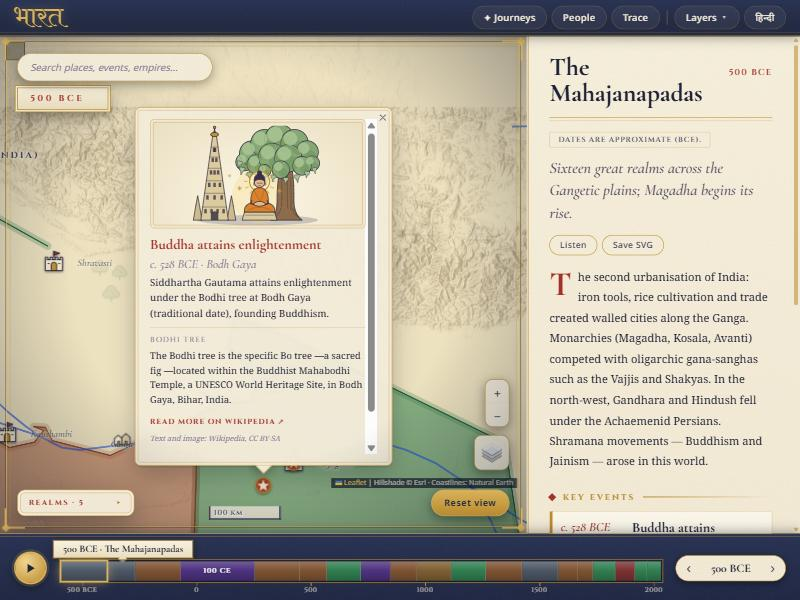
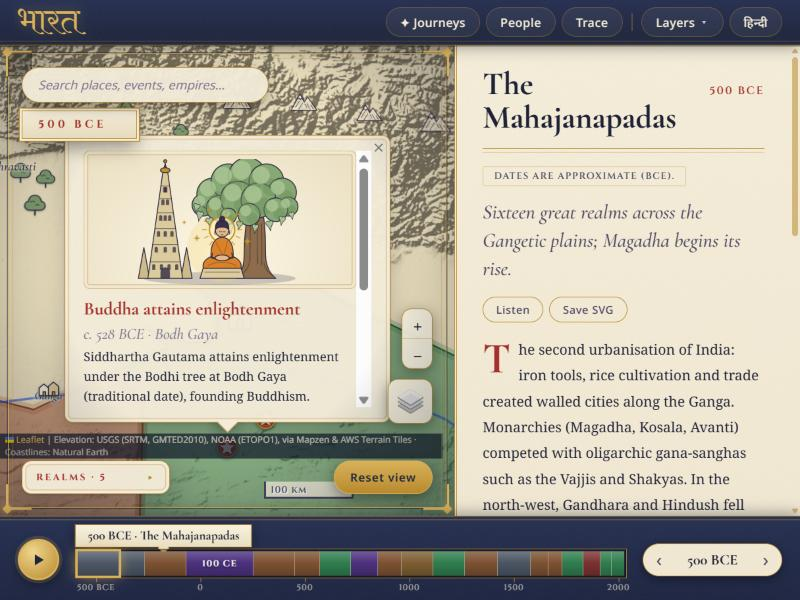
Replace Esri map tiles with open, keyless sources
Hillshade and the Relief view are now drawn in the browser from the public
AWS Terrain Tiles dataset (USGS SRTM/GMTED2010, NOAA ETOPO1) by js/terrain.js;
the Satellite view and the "today" side of Then & Now use NASA Blue Marble
via NASA GIBS (CC0). No Esri requests remain; CSP img-src updated, NOTICE and
READMEs updated, README screenshots retaken, cache version bumped to 60.

diff --git a/india-atlas/js/terrain.js b/india-atlas/js/terrain.js
@@ -1,0 +1,127 @@
+/*
+ * Map surfaces that come from open, keyless sources (no vendor terms to worry about):
+ *   shade()   - the hillshade under the antique atlas
+ *   relief()  - the "Relief" base map: hypsometric tint (sea depth, lowland green, brown hills, white peaks) with shading
+ *   imagery() - the "Satellite" view and the "today" side of Then & Now
+ *
+ * shade() and relief() are drawn in the visitor's browser from the public Terrain Tiles dataset (elevation encoded as
+ * RGB "terrarium" PNGs on AWS Open Data; built from SRTM and GMTED2010, US Geological Survey, and ETOPO1, NOAA), so the
+ * look is ours to control. A tile needs its eight neighbours so the slope at its edges is right; decoded tiles are
+ * cached in memory and shared between neighbours.
+ * imagery() is NASA's Blue Marble (Next Generation), served by NASA GIBS (NASA data is CC0).
+ */
+(function () {
+  'use strict';
+  if (!window.L) return;
+
+  const TERRAIN = 'https://s3.amazonaws.com/elevation-tiles-prod/terrarium/';
+  const GIBS = 'https://gibs.earthdata.nasa.gov/wmts/epsg3857/best/BlueMarble_NextGeneration/default/GoogleMapsCompatible_Level8/{z}/{y}/{x}.jpeg';
+  const ATTR_ELEV = 'Elevation: USGS (SRTM, GMTED2010), NOAA (ETOPO1), via Mapzen &amp; AWS Terrain Tiles';
+  const ATTR_IMG = 'Imagery: NASA Blue Marble, NASA GIBS';
+
+  // ------------------------------------------------------------------ decoded elevation tiles (LRU)
+  const cache = new Map(), CACHE_MAX = 120;
+  const scratch = document.createElement('canvas'); scratch.width = scratch.height = 256;
+  const sctx = scratch.getContext('2d', { willReadFrequently: true });
+
+  function load(z, x, y) {
+    const n = 1 << z;
+    if (y < 0 || y >= n) return Promise.resolve(null);
+    x = ((x % n) + n) % n;
+    const key = z + '/' + x + '/' + y;
+    let p = cache.get(key);
+    if (p) { cache.delete(key); cache.set(key, p); return p; }
+    p = new Promise((resolve) => {
+      const im = new Image(); im.crossOrigin = 'anonymous'; im.decoding = 'async';
+      im.onload = () => {
+        try {
+          sctx.clearRect(0, 0, 256, 256); sctx.drawImage(im, 0, 0);
+          const d = sctx.getImageData(0, 0, 256, 256).data, e = new Float32Array(65536);
+          for (let i = 0, j = 0; j < 65536; i += 4, j++) e[j] = d[i] * 256 + d[i + 1] + d[i + 2] / 256 - 32768;   // metres
+          resolve(e);
+        } catch (_) { cache.delete(key); resolve(null); }
+      };
+      im.onerror = () => { cache.delete(key); resolve(null); };
+      im.src = TERRAIN + key + '.png';
+    });
+    cache.set(key, p);
+    if (cache.size > CACHE_MAX) cache.delete(cache.keys().next().value);
+    return p;
+  }
+
+  // ------------------------------------------------------------------ colour ramp for the relief map
+  const STOPS = [   // metres -> RGB; soft, a little desaturated so it sits with the parchment UI
+    [-8000, [112, 140, 158]], [-4000, [134, 162, 176]], [-1500, [158, 184, 194]], [-300, [186, 208, 211]], [-1, [206, 223, 218]],
+    [0, [176, 196, 136]], [250, [196, 208, 146]], [600, [216, 214, 156]], [1100, [224, 205, 150]], [1800, [212, 184, 134]],
+    [2800, [190, 158, 120]], [3800, [168, 146, 126]], [4800, [196, 186, 176]], [5800, [234, 231, 226]], [8000, [252, 252, 250]]
+  ];
+  const LUT_MIN = -9000, LUT_STEP = 20, LUT = new Uint8ClampedArray(((9500 - LUT_MIN) / LUT_STEP + 2) * 3);
+  (function build() {
+    for (let k = 0; k * LUT_STEP + LUT_MIN <= 9500; k++) {
+      const e = LUT_MIN + k * LUT_STEP; let a = STOPS[0], b = STOPS[STOPS.length - 1];
+      for (let s = 0; s < STOPS.length - 1; s++) if (e >= STOPS[s][0] && e <= STOPS[s + 1][0]) { a = STOPS[s]; b = STOPS[s + 1]; break; }
+      const t = e <= a[0] ? 0 : e >= b[0] ? 1 : (e - a[0]) / (b[0] - a[0]);
+      for (let c = 0; c < 3; c++) LUT[k * 3 + c] = a[1][c] + (b[1][c] - a[1][c]) * t;
+    }
+  })();
+
+  // ------------------------------------------------------------------ drawing one tile
+  const AZ = 315 * Math.PI / 180, ALT = 42 * Math.PI / 180;   // light from the north-west, as on a printed atlas
+  const LX = Math.sin(AZ) * Math.cos(ALT), LY = Math.cos(AZ) * Math.cos(ALT), LZ = Math.sin(ALT);
+
+  function render(coords, mode, canvas) {
+    const z = coords.z, n = 1 << z;
+    const nb = [];
+    for (let dy = -1; dy <= 1; dy++) for (let dx = -1; dx <= 1; dx++) nb.push(load(z, coords.x + dx, coords.y + dy));
+    return Promise.all(nb).then((t) => {
+      const c = t[4]; if (!c) return;
+      const W = 258, h = new Float32Array(W * W), raw = mode === 'relief' ? c : null;
+      for (let j = -1; j <= 256; j++) {
+        const ty = j < 0 ? 0 : j > 255 ? 2 : 1, lj = j < 0 ? 255 : j > 255 ? 0 : j;
+        for (let i = -1; i <= 256; i++) {
+          const tx = i < 0 ? 0 : i > 255 ? 2 : 1, li = i < 0 ? 255 : i > 255 ? 0 : i;
+          let T = t[ty * 3 + tx], a = li, b = lj;
+          if (!T) { T = c; a = i < 0 ? 0 : i > 255 ? 255 : i; b = j < 0 ? 0 : j > 255 ? 255 : j; }   // missing neighbour: reuse the edge
+          const e = T[b * 256 + a]; h[(j + 1) * W + i + 1] = e > 0 ? e : 0;   // the sea is flat, so only land is shaded
+        }
+      }
+      const ex = (mode === 'relief' ? 2 : 2.5) * Math.pow(2, (10 - z) * 0.45);   // vertical exaggeration: broad views have tiny slopes, so lift them
+      const ctx = canvas.getContext('2d'), img = ctx.createImageData(256, 256), o = img.data;
+      for (let j = 0; j < 256; j++) {
+        const lat = Math.atan(Math.sinh(Math.PI * (1 - 2 * (coords.y + (j + 0.5) / 256) / n)));
+        const k = 1 / (8 * (40075016.686 / (256 * n)) * Math.cos(lat)) * ex;   // 1 / (8 x metres per pixel), Horn's method
+        for (let i = 0; i < 256; i++) {
+          const p = (j + 1) * W + i + 1;
+          const a = h[p - W - 1], b = h[p - W], cc = h[p - W + 1], d = h[p - 1], f = h[p + 1], g = h[p + W - 1], hh = h[p + W], ii = h[p + W + 1];
+          const dzdx = ((cc + 2 * f + ii) - (a + 2 * d + g)) * k, dzdy = ((a + 2 * b + cc) - (g + 2 * hh + ii)) * k;
+          const lit = (-dzdx * LX - dzdy * LY + LZ) / Math.sqrt(dzdx * dzdx + dzdy * dzdy + 1);   // 1 on flat ground x sin(altitude)
+          const r = lit / LZ, q = (j * 256 + i) * 4;
+          if (mode === 'relief') {
+            let li = Math.round((raw[j * 256 + i] - LUT_MIN) / LUT_STEP); li = li < 0 ? 0 : li > 718 ? 718 : li;
+            let m = 1 + 0.85 * (r - 1); m = m < 0.5 ? 0.5 : m > 1.14 ? 1.14 : m;
+            o[q] = LUT[li * 3] * m; o[q + 1] = LUT[li * 3 + 1] * m; o[q + 2] = LUT[li * 3 + 2] * m; o[q + 3] = 255;
+          } else {   // grey for a multiply blend: flat ground stays white, shaded slopes darken
+            let v = 1 - 1.35 * (1 - r); v = v < 0.14 ? 0.14 : v > 1 ? 1 : v;   // shadows a touch warmer than neutral grey
+            o[q] = v * 255; o[q + 1] = Math.pow(v, 1.06) * 255; o[q + 2] = Math.pow(v, 1.16) * 255; o[q + 3] = 255;
+          }
+        }
+      }
+      ctx.putImageData(img, 0, 0);
+    }).catch(() => { /* leave the tile blank */ });
+  }
+
+  const Terrain = L.GridLayer.extend({
+    initialize: function (mode, opts) { this._mode = mode; L.GridLayer.prototype.initialize.call(this, opts); },
+    createTile: function (coords, done) {
+      const c = document.createElement('canvas'); c.width = c.height = 256;
+      render(coords, this._mode, c).then(() => done(null, c));
+      return c;
+    }
+  });
+
+  window.ATLAS_TERRAIN = {
+    shade: (o) => new Terrain('shade', Object.assign({ maxNativeZoom: 9, maxZoom: 10, attribution: ATTR_ELEV + ' · Coastlines: Natural Earth' }, o)),
+    relief: (o) => new Terrain('relief', Object.assign({ maxNativeZoom: 9, maxZoom: 10, attribution: ATTR_ELEV }, o)),
+    imagery: (o) => L.tileLayer(GIBS, Object.assign({ maxNativeZoom: 8, maxZoom: 10, attribution: ATTR_IMG }, o))
+  };
+})();

diff --git a/india-atlas/index.html b/india-atlas/index.html
@@ -5,16 +5,16 @@
 <meta name="viewport" content="width=device-width, initial-scale=1">
 <title>Atlas of India — Interactive Historical Map</title>
 <meta name="description" content="Scrub through 2,500 years of Indian history: empires, journeys, events and places from the Mahajanapadas to today.">
-<meta http-equiv="Content-Security-Policy" content="default-src 'self'; script-src 'self' https://cdnjs.cloudflare.com; style-src 'self' 'unsafe-inline' https://cdnjs.cloudflare.com; font-src 'self'; img-src 'self' data: blob: https://cdnjs.cloudflare.com https://server.arcgisonline.com https://upload.wikimedia.org; connect-src 'self' https://en.wikipedia.org https://hi.wikipedia.org; worker-src 'self'; manifest-src 'self'; object-src 'none'; base-uri 'self'; form-action 'none'">
+<meta http-equiv="Content-Security-Policy" content="default-src 'self'; script-src 'self' https://cdnjs.cloudflare.com; style-src 'self' 'unsafe-inline' https://cdnjs.cloudflare.com; font-src 'self'; img-src 'self' data: blob: https://cdnjs.cloudflare.com https://s3.amazonaws.com https://gibs.earthdata.nasa.gov https://upload.wikimedia.org; connect-src 'self' https://en.wikipedia.org https://hi.wikipedia.org; worker-src 'self'; manifest-src 'self'; object-src 'none'; base-uri 'self'; form-action 'none'">
 <meta name="referrer" content="strict-origin-when-cross-origin">
 <meta name="theme-color" content="#1c2540">
 <link rel="manifest" href="manifest.webmanifest">
 <link rel="icon" href="icon.svg" type="image/svg+xml">
-<link rel="stylesheet" href="css/fonts.css?v=59">
+<link rel="stylesheet" href="css/fonts.css?v=60">
 <link rel="stylesheet" href="https://cdnjs.cloudflare.com/ajax/libs/leaflet/1.9.4/leaflet.min.css" integrity="sha512-h9FcoyWjHcOcmEVkxOfTLnmZFWIH0iZhZT1H2TbOq55xssQGEJHEaIm+PgoUaZbRvQTNTluNOEfb1ZRy6D3BOw==" crossorigin="anonymous" referrerpolicy="no-referrer">
-<link rel="stylesheet" href="css/style.css?v=59">
-<link rel="stylesheet" href="css/wow.css?v=59">
-<script src="js/preintro.js?v=59"></script>
+<link rel="stylesheet" href="css/style.css?v=60">
+<link rel="stylesheet" href="css/wow.css?v=60">
+<script src="js/preintro.js?v=60"></script>
 </head>
 <body>
 <div id="intro" class="intro"></div>
@@ -87,31 +87,32 @@
 </div>
 
 <script src="https://cdnjs.cloudflare.com/ajax/libs/leaflet/1.9.4/leaflet.min.js" integrity="sha512-puJW3E/qXDqYp9IfhAI54BJEaWIfloJ7JWs7OeD5i6ruC9JZL1gERT1wjtwXFlh7CjE7ZJ+/vcRZRkIYIb6p4g==" crossorigin="anonymous" referrerpolicy="no-referrer"></script>
-<script src="js/data.js?v=59"></script>
-<script src="js/data_hi.js?v=59"></script>
-<script src="js/geo.js?v=59"></script>
-<script src="js/icons.js?v=59"></script>
-<script src="js/land.js?v=59"></script>
-<script src="js/detail.js?v=59"></script>
-<script src="js/realm_notes.js?v=59"></script>
-<script src="js/routes.js?v=59"></script>
-<script src="js/people.js?v=59"></script>
-<script src="js/rivers.js?v=59"></script>
-<script src="js/works.js?v=59"></script>
-<script src="js/core.js?v=59"></script>
-<script src="js/event_wiki.js?v=59"></script>
-<script src="js/battles.js?v=59"></script>
-<script src="js/landmarks.js?v=59"></script>
-<script src="js/app.js?v=59"></script>
-<script src="js/extras.js?v=59"></script>
-<script src="js/lod.js?v=59"></script>
-<script src="js/wiki.js?v=59"></script>
-<script src="js/declutter.js?v=59"></script>
-<script src="js/voice.js?v=59"></script>
-<script src="js/journeys_data.js?v=59"></script>
-<script src="js/journeys.js?v=59"></script>
-<script src="js/swipe.js?v=59"></script>
-<script src="js/intro.js?v=59"></script>
-<script src="js/sw-register.js?v=59"></script>
+<script src="js/data.js?v=60"></script>
+<script src="js/data_hi.js?v=60"></script>
+<script src="js/geo.js?v=60"></script>
+<script src="js/icons.js?v=60"></script>
+<script src="js/land.js?v=60"></script>
+<script src="js/detail.js?v=60"></script>
+<script src="js/realm_notes.js?v=60"></script>
+<script src="js/routes.js?v=60"></script>
+<script src="js/people.js?v=60"></script>
+<script src="js/rivers.js?v=60"></script>
+<script src="js/works.js?v=60"></script>
+<script src="js/core.js?v=60"></script>
+<script src="js/event_wiki.js?v=60"></script>
+<script src="js/battles.js?v=60"></script>
+<script src="js/terrain.js?v=60"></script>
+<script src="js/landmarks.js?v=60"></script>
+<script src="js/app.js?v=60"></script>
+<script src="js/extras.js?v=60"></script>
+<script src="js/lod.js?v=60"></script>
+<script src="js/wiki.js?v=60"></script>
+<script src="js/declutter.js?v=60"></script>
+<script src="js/voice.js?v=60"></script>
+<script src="js/journeys_data.js?v=60"></script>
+<script src="js/journeys.js?v=60"></script>
+<script src="js/swipe.js?v=60"></script>
+<script src="js/intro.js?v=60"></script>
+<script src="js/sw-register.js?v=60"></script>
 </body>
 </html>

diff --git a/india-atlas/js/app.js b/india-atlas/js/app.js
@@ -69,12 +69,9 @@
   // respect "reduce motion": no fly animations, static route lines
   const REDUCE = !!(window.matchMedia && window.matchMedia('(prefers-reduced-motion: reduce)').matches);
   if (REDUCE) { const _fly = map.flyTo.bind(map); map.flyTo = (ll, z) => map.setView(ll, z == null ? map.getZoom() : z, { animate: false }); map.flyToBounds = (b, o) => map.fitBounds(b, Object.assign({ animate: false }, o)); void _fly; }
-  const relief = L.tileLayer('https://server.arcgisonline.com/ArcGIS/rest/services/World_Shaded_Relief/MapServer/tile/{z}/{y}/{x}', {
-    attribution: 'Tiles &copy; Esri — Source: Esri', maxNativeZoom: 13, maxZoom: 13
-  });
-  const imagery = L.tileLayer('https://server.arcgisonline.com/ArcGIS/rest/services/World_Imagery/MapServer/tile/{z}/{y}/{x}', {
-    attribution: 'Tiles &copy; Esri — Esri, Maxar, Earthstar Geographics', maxNativeZoom: 13, maxZoom: 13
-  });
+  // open, keyless map surfaces (js/terrain.js): relief and hillshade are drawn from public elevation data, satellite is NASA Blue Marble
+  const relief = ATLAS_TERRAIN.relief();
+  const imagery = ATLAS_TERRAIN.imagery();
   // ── custom "antique atlas" basemap: engraved sea, water-lined coasts, shaded hills, graticule ──
   map.createPane('landPane').style.zIndex = 210;
   const shadePane = map.createPane('shadePane'); shadePane.style.zIndex = 215; shadePane.classList.add('leaflet-shade-pane');
@@ -83,9 +80,7 @@
   const landRenderer = L.svg({ pane: 'landPane', padding: 0.6 });
   const gridRenderer = L.svg({ pane: 'gridPane', padding: 0.6 });
   const antique = L.layerGroup();
-  const hill = L.tileLayer('https://server.arcgisonline.com/ArcGIS/rest/services/Elevation/World_Hillshade/MapServer/tile/{z}/{y}/{x}', {
-    pane: 'shadePane', maxNativeZoom: 13, maxZoom: 13, attribution: 'Hillshade &copy; Esri · Coastlines: Natural Earth'
-  });
+  const hill = ATLAS_TERRAIN.shade({ pane: 'shadePane' });
   const LAND = window.ATLAS_LAND || [];
   [[36, 0.05], [25, 0.07], [16, 0.1], [9, 0.16], [4, 0.26]].forEach(([w, o]) => {   // water-lining: soft concentric ripples
     LAND.forEach((poly) => antique.addLayer(L.polygon(poly, { renderer: landRenderer, fill: false, color: '#bfd9df', weight: w, opacity: o, lineJoin: 'round', interactive: false })));

diff --git a/india-atlas/sw.js b/india-atlas/sw.js
@@ -1,9 +1,9 @@
 /* Service worker: offline app shell + Leaflet from the CDN. Map tiles are NOT cached (they need a network). */
-const VERSION = 'atlas-v59';
+const VERSION = 'atlas-v60';
 const SHELL = [
-  './', 'index.html', 'css/fonts.css?v=59', 'css/style.css?v=59', 'css/wow.css?v=59',
-  'js/data.js?v=59', 'js/data_hi.js?v=59', 'js/geo.js?v=59', 'js/land.js?v=59', 'js/icons.js?v=59', 'js/detail.js?v=59', 'js/realm_notes.js?v=59', 'js/lod.js?v=59', 'js/wiki.js?v=59', 'js/declutter.js?v=59', 'js/routes.js?v=59', 'js/people.js?v=59', 'js/rivers.js?v=59', 'js/works.js?v=59',
-  'js/core.js?v=59', 'js/event_wiki.js?v=59', 'js/battles.js?v=59', 'js/landmarks.js?v=59', 'js/app.js?v=59', 'js/extras.js?v=59', 'js/preintro.js?v=59', 'js/voice.js?v=59', 'js/journeys_data.js?v=59', 'js/journeys.js?v=59', 'js/swipe.js?v=59', 'js/intro.js?v=59', 'js/sw-register.js?v=59', 'icon.svg', 'manifest.webmanifest'
+  './', 'index.html', 'css/fonts.css?v=60', 'css/style.css?v=60', 'css/wow.css?v=60',
+  'js/data.js?v=60', 'js/data_hi.js?v=60', 'js/geo.js?v=60', 'js/land.js?v=60', 'js/icons.js?v=60', 'js/detail.js?v=60', 'js/realm_notes.js?v=60', 'js/lod.js?v=60', 'js/wiki.js?v=60', 'js/declutter.js?v=60', 'js/routes.js?v=60', 'js/people.js?v=60', 'js/rivers.js?v=60', 'js/works.js?v=60',
+  'js/core.js?v=60', 'js/event_wiki.js?v=60', 'js/battles.js?v=60', 'js/terrain.js?v=60', 'js/landmarks.js?v=60', 'js/app.js?v=60', 'js/extras.js?v=60', 'js/preintro.js?v=60', 'js/voice.js?v=60', 'js/journeys_data.js?v=60', 'js/journeys.js?v=60', 'js/swipe.js?v=60', 'js/intro.js?v=60', 'js/sw-register.js?v=60', 'icon.svg', 'manifest.webmanifest'
 ];
 const CDN = ['https://cdnjs.cloudflare.com/ajax/libs/leaflet/1.9.4/leaflet.min.css', 'https://cdnjs.cloudflare.com/ajax/libs/leaflet/1.9.4/leaflet.min.js'];
 

diff --git a/india-atlas/js/swipe.js b/india-atlas/js/swipe.js
@@ -27,9 +27,7 @@
 
   // ---- the "today" layers live in their own pane so a single clip rectangle can hide them left of the line ----
   const pane = map.createPane('nowPane'); pane.style.zIndex = 640; pane.style.pointerEvents = 'none';
-  const tiles = L.tileLayer('https://server.arcgisonline.com/ArcGIS/rest/services/World_Imagery/MapServer/tile/{z}/{y}/{x}', {
-    pane: 'nowPane', maxNativeZoom: 13, maxZoom: 13, attribution: 'Imagery &copy; Esri, Maxar, Earthstar Geographics'
-  });
+  const tiles = ATLAS_TERRAIN.imagery({ pane: 'nowPane' });
   const renderer = L.svg({ pane: 'nowPane', padding: 0.6 });
   const group = L.layerGroup();
   let labelMarkers = [];

diff --git a/india-atlas/README.md b/india-atlas/README.md
@@ -27,10 +27,10 @@ The site is fully static (relative paths, no build step), so it works from a Git
 1. In the folder that contains `india-atlas/` and `scripts/`: `git init`, commit, and push to a new GitHub repository (branch `main`).
 2. In the repo: **Settings → Pages → Build and deployment → Source: GitHub Actions**.
 3. The included workflow `.github/workflows/pages.yml` validates the data, rebuilds the topic pages and sitemap with your real URL, and publishes `india-atlas/` to `https://<user>.github.io/<repo>/`.
-Notes: the large `upstream/` and `raw-data/` folders are git-ignored; map tiles come from Esri (check their terms for your traffic); the fonts are self-hosted, so no visitor data goes to Google.
+Notes: the large `upstream/` and `raw-data/` folders are git-ignored; the map surfaces come from open, keyless sources (public elevation data and NASA imagery, see `NOTICE.md`), so there is no tile account or key to set up; the fonts are self-hosted, so no visitor data goes to Google.
 
 ## Look and feel
-The visual system follows the design language of the original jiangshan-map (GPL-3.0): a warm parchment palette with a vermilion accent, serif body text with a sans-serif UI (Noto Serif / Noto Sans with Devanagari companions), a calligraphic seal mark (Amita) in the header, pill controls, hairline borders, a docked side panel with event cards, a floating legend card with era-progress dots, a sepia-toned relief basemap with an aged-paper vignette, muted watercolour-style realm fills, and a banded timeline coloured by each era's largest realm. Fonts load from Google Fonts.
+The visual system follows the design language of the original jiangshan-map (GPL-3.0): a warm parchment palette with a vermilion accent, serif body text with a sans-serif UI (Noto Serif / Noto Sans with Devanagari companions), a calligraphic seal mark (Amita) in the header, pill controls, hairline borders, a docked side panel with event cards, a floating legend card with era-progress dots, a sepia-toned relief basemap with an aged-paper vignette, muted watercolour-style realm fills, and a banded timeline coloured by each era's largest realm. The fonts are bundled with the site (`fonts/`, SIL Open Font License).
 
 ## Run
 ```
@@ -51,7 +51,7 @@ Docker (untested here): `docker compose up -d --build`, then open http://localho
 ## Caveats
 - Borders are approximate; the source's names/polygons can be generic ("Hindu kingdoms") — some were relabelled by hand.
 - Hindi covers everything: UI, era and realm names, narratives, rulers, places, events and quiz clues (`js/data_hi.js`, aligned by index with `js/data.js` — keep them in sync when adding items). Translations are machine-drafted; a native-speaker review is recommended.
-- Basemap tiles come from Esri (World Shaded Relief / Imagery, attribution shown). Check Esri's terms and use a keyed or open tile provider for production traffic.
+- Map surfaces are open and keyless: the hillshade and the Relief view are drawn in the browser from AWS Terrain Tiles (USGS/NOAA elevation, `js/terrain.js`); Satellite and the "today" side of Then & Now are NASA Blue Marble (500 m, so close zooms are soft). Elevation tiles are fetched from a public AWS bucket and NASA GIBS, both fine for light traffic; for heavy traffic host your own copy.
 - Journey paths in `routes.js` are schematic polylines through known waypoints, not surveyed routes.
 - Present-day India (the 1960 and 2010 eras) is drawn as India officially depicts itself, including all of Jammu & Kashmir and Ladakh, from Natural Earth's "India point of view" data (`scripts/apply_india_claim.js`). That is an approximation, not the Survey of India's official map; other outlines are as the data sources draw them.
 - Licence: GPL-3.0 (see LICENSE), because it ships GPL-3.0-derived data.

diff --git a/india-atlas/NOTICE.md b/india-atlas/NOTICE.md
@@ -9,7 +9,8 @@ It builds on and ships the following third-party material:
 | Coastline (`js/land.js`) and the present-day outline of India (`scripts/apply_india_claim.js`) | [Natural Earth](https://www.naturalearthdata.com) 50m land; 10m countries, India point of view | Public domain |
 | Design language (palette structure, docked panel, banded timeline) | [jiangshan-map](https://github.com/DeanChensj/jiangshan-map) | GPL-3.0 |
 | Map engine | [Leaflet](https://leafletjs.com) 1.9.4, loaded from cdnjs with Subresource Integrity | BSD-2-Clause |
-| Hillshade / relief / imagery tiles | Esri (World Hillshade, World Shaded Relief, World Imagery) | Esri terms of use — attribution shown on the map; review them for your traffic |
+| Hillshade and Relief base map (`js/terrain.js`) | Drawn in the visitor's browser from the public [Terrain Tiles](https://registry.opendata.aws/terrain-tiles/) dataset on AWS Open Data (Mapzen), which for this region is built mainly from SRTM and GMTED2010 (US Geological Survey) and ETOPO1 sea-floor depths (NOAA) | US Government data, public domain; credit shown on the map. Not for navigation |
+| Satellite view and the "today" side of Then & Now | [NASA Blue Marble, Next Generation](https://visibleearth.nasa.gov/collection/1484/blue-marble) served by [NASA GIBS](https://www.earthdata.nasa.gov/engage/open-data-services-software-policies/gibs) | NASA data, CC0 / no restrictions; credit shown on the map |
 | Place and event photos and summaries | Wikipedia, fetched live when a popup opens | CC BY-SA 4.0 (credit shown in each popup) |
 | Journey narration audio (`audio/en/`) | Synthesised with [Kokoro-82M](https://huggingface.co/hexgrad/Kokoro-82M) (ONNX build by onnx-community) via `kokoro-js`; generated speech, not a recording of a person | Apache-2.0 (model weights and code) |
 | Landmark illustrations (`js/landmarks.js`) | Drawn for this project, in the house style of `js/icons.js` | GPL-3.0 with the rest of the code |

diff --git a/README.md b/README.md
@@ -62,7 +62,7 @@ synthesised speech.
 
 Built on [historical-basemaps](https://github.com/aourednik/historical-basemaps) (boundaries, GPL-3.0),
 [Natural Earth](https://www.naturalearthdata.com) (coastlines, public domain), [Leaflet](https://leafletjs.com),
-Esri tiles, Wikipedia (CC BY-SA), and [Kokoro-82M](https://huggingface.co/hexgrad/Kokoro-82M) (narration, Apache-2.0).
+public elevation data (USGS and NOAA, via AWS Terrain Tiles), NASA Blue Marble imagery, Wikipedia (CC BY-SA), and [Kokoro-82M](https://huggingface.co/hexgrad/Kokoro-82M) (narration, Apache-2.0).
 The design language follows [jiangshan-map](https://github.com/DeanChensj/jiangshan-map). Every source and its licence is listed in
 [`india-atlas/NOTICE.md`](india-atlas/NOTICE.md).
 
